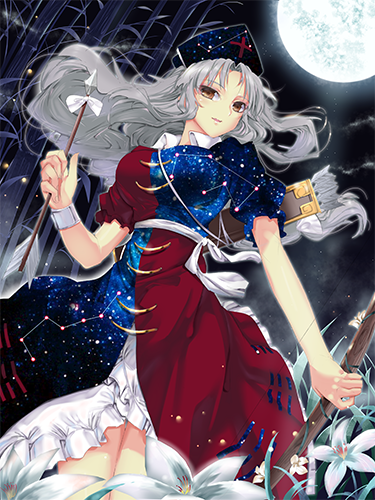
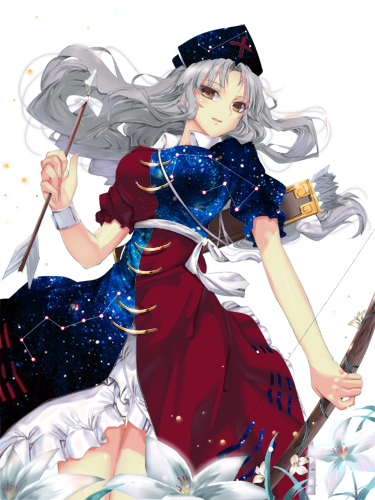
ui tunes.
* Remove backdrop of eirin's figure
* New title for Shikieiki

diff --git a/src/gamepack/thb/ui/ui_meta/characters/shikieiki.py b/src/gamepack/thb/ui/ui_meta/characters/shikieiki.py
@@ -64,7 +64,7 @@ class Shikieiki:
     char_name = u'四季映姬'
     port_image = gres.shikieiki_port
     description = (
-        u'|DB乐园的最高裁判长 四季映姬 体力：3|r\n\n'
+        u'|DB胸不平何以平天下 四季映姬 体力：3|r\n\n'
         u'|G审判|r：在任意角色的判定牌生效前，你可以打出一张牌代替之。\n\n'
         u'|G威严|r：可以立即从对你造成伤害的来源处获得一张牌。'
     )
